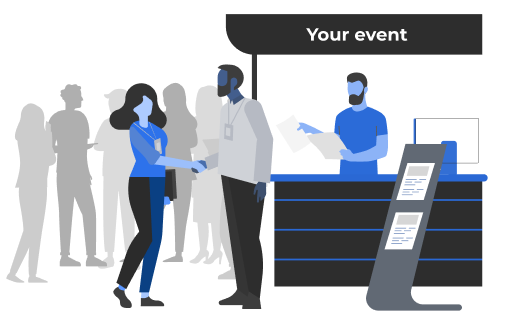
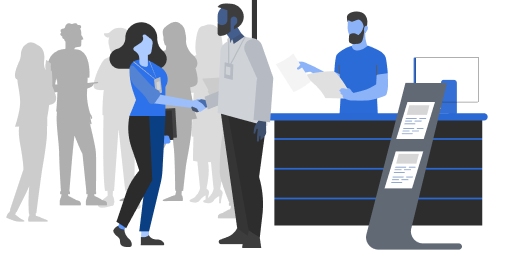
changed session name

diff --git a/frontend/src/components/RecruitmentHero/RecruitmentHero.jsx b/frontend/src/components/RecruitmentHero/RecruitmentHero.jsx
@@ -11,7 +11,7 @@ const RecruitmentHero = () => {
 
         <div className="recruitment-badge">
           <span className="badge-icon">⚡</span>
-          Spring 2026 Recruitment Now Open
+          Fall 2026 Recruitment Now Open
         </div>
 
         <h1 className="hero-title">ACM CUI WAH CHAPTER</h1>
